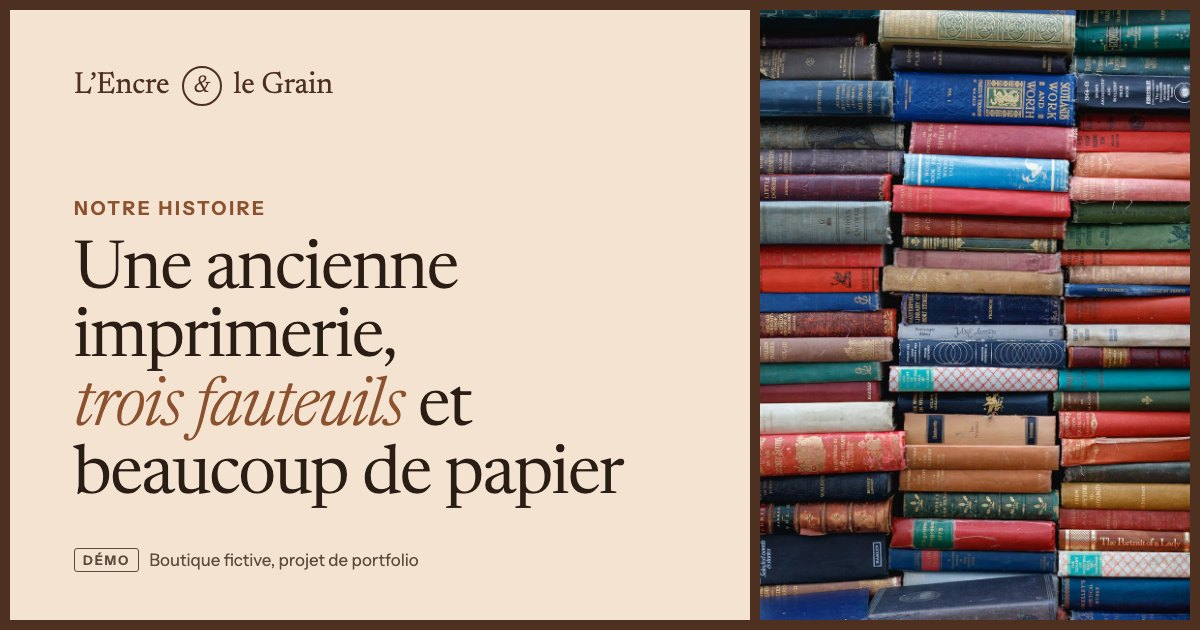
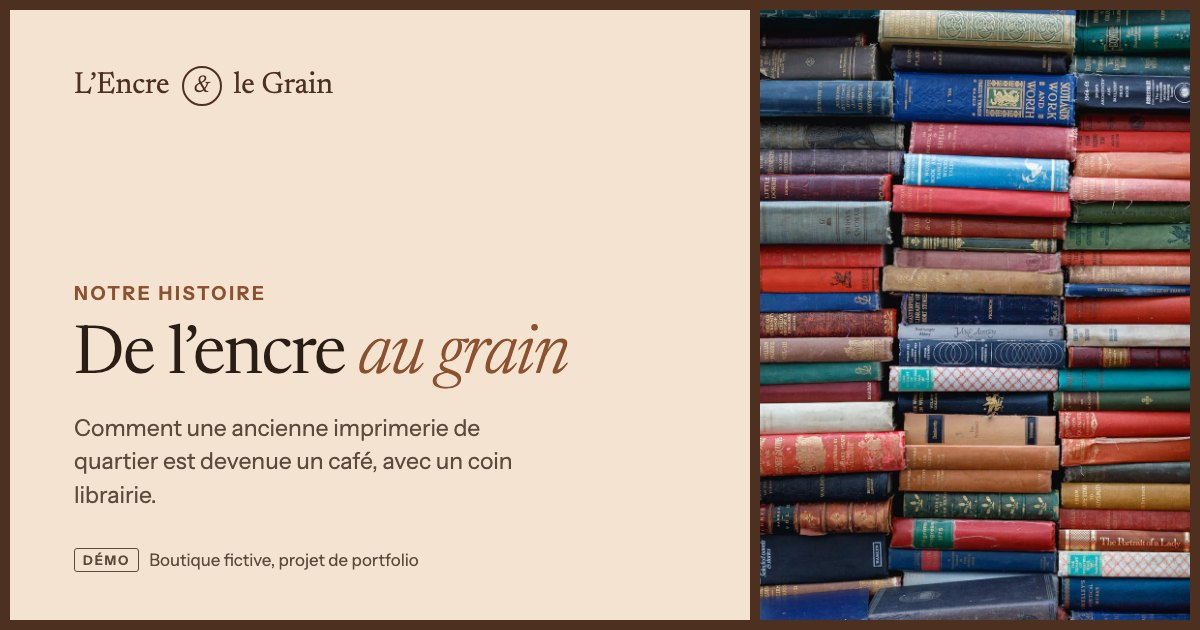
En-têtes de page identiques : fond sable et même hauteur
- Un seul fond (sable) pour tous les en-têtes, hauteur minimale commune
- Mentions (fictif, prix indicatifs) déplacées juste sous le bandeau
- Page histoire : titre « De l'encre au grain », introductions raccourcies
- Image de partage de l'histoire régénérée

Changed region(s): [[0.0617, 0.3016, 0.5242, 0.8143]]

diff --git a/src/components/layout/PageHeader.vue b/src/components/layout/PageHeader.vue
@@ -1,24 +1,23 @@
 <script setup lang="ts">
 /**
- * En-tête des pages intérieures : bandeau coloré qui détache le titre du
- * menu, avec fil d'Ariane et tampon décoratif aux couleurs de la marque.
+ * En-tête des pages intérieures : bandeau sable identique sur toutes les pages
+ * (même fond, même hauteur minimale), avec fil d'Ariane et tampon décoratif.
+ * Pour garder la même hauteur partout, l'introduction tient en deux lignes et
+ * les mentions (« fictif », « prix indicatifs ») passent sous le bandeau.
  */
-withDefaults(
-  defineProps<{
-    /** Identifiant du h1, pour aria-labelledby. */
-    titleId: string
-    eyebrow: string
-    /** Libellé de la page dans le fil d'Ariane. */
-    crumb: string
-    /** Sable pour la librairie et les pages générales, kraft pour l'univers café. */
-    tone?: 'sand' | 'kraft'
-  }>(),
-  { tone: 'sand' },
-)
+defineProps<{
+  /** Identifiant du h1, pour aria-labelledby. */
+  titleId: string
+  eyebrow: string
+  /** Libellé de la page dans le fil d'Ariane. */
+  crumb: string
+  /** Mention affichée juste sous le bandeau. */
+  note?: string
+}>()
 </script>
 
 <template>
-  <header class="page-header" :class="`page-header--${tone}`">
+  <header class="page-header">
     <div class="container page-header__inner">
       <nav aria-label="Fil d'Ariane" class="page-header__crumbs">
         <ol>
@@ -41,6 +40,7 @@ withDefaults(
       </div>
     </div>
   </header>
+  <p v-if="note" class="page-header__note container">{{ note }}</p>
 </template>
 
 <style scoped>
@@ -51,13 +51,13 @@ withDefaults(
   background: var(--color-library);
 }
 
-.page-header--kraft {
-  background: var(--color-cafe);
-}
 
 .page-header__inner {
   display: grid;
+  align-content: start;
   gap: var(--space-6);
+  /* Même hauteur sur toutes les pages (celle de la carte) */
+  min-height: 24.5rem;
   padding-block: var(--space-7) var(--space-8);
 }
 
@@ -72,14 +72,7 @@ withDefaults(
   list-style: none;
 }
 
-/* Le caramel n'est pas assez contrasté sur le kraft : on passe au marron */
-.page-header--kraft .eyebrow {
-  color: var(--color-primary);
-}
 
-.page-header--kraft .page-header__crumbs ol {
-  color: var(--color-cafe-ink);
-}
 
 .page-header__crumbs li + li::before {
   content: '/';
@@ -123,11 +116,10 @@ withDefaults(
   font-size: var(--text-lead);
 }
 
-.page-header--kraft .page-header__lead {
-  color: var(--color-cafe-ink);
-}
 
-.page-header__lead :deep(small) {
+.page-header__note {
+  padding-top: var(--space-4);
+  color: var(--color-text-muted);
   font-size: var(--text-xs);
   font-style: italic;
 }
@@ -138,6 +130,10 @@ withDefaults(
 }
 
 @media (min-width: 56rem) {
+  .page-header__inner {
+    min-height: 21.875rem;
+  }
+
   .page-header__grid {
     grid-template-columns: 1fr auto;
   }
@@ -159,11 +155,6 @@ withDefaults(
     transform: rotate(-8deg);
   }
 
-  .page-header--kraft .page-header__stamp {
-    box-shadow:
-      0 0 0 6px var(--color-cafe),
-      0 0 0 7px var(--color-primary);
-  }
 
   .page-header__amp {
     font-family: var(--font-serif);

diff --git a/src/pages/LibraryPage.vue b/src/pages/LibraryPage.vue
@@ -16,17 +16,17 @@ usePageMeta({
 </script>
 
 <template>
-  <PageHeader title-id="library-title" eyebrow="Le coin librairie" crumb="Le coin librairie">
+  <PageHeader
+    title-id="library-title"
+    eyebrow="Le coin librairie"
+    crumb="Le coin librairie"
+    note="Les livres existent vraiment ; les prix sont indicatifs. Les couvertures sont des illustrations créées pour le site, pas celles des éditeurs."
+  >
     <template #title>La sélection <em>d'automne</em></template>
     <p>
-      {{ total }} livres pour les soirées qui raccourcissent : sorcières, manoirs, forêts qui
-      murmurent et fantasy douce comme un latte. Tous sont à feuilleter sur place, près de la
-      machine à café.
+      {{ total }} livres pour les soirées qui raccourcissent : sorcières, manoirs et fantasy douce
+      comme un latte, à feuilleter sur place.
     </p>
-    <small>
-      Les livres existent vraiment ; les prix sont indicatifs. Les couvertures sont des
-      illustrations créées pour le site, pas celles des éditeurs.
-    </small>
   </PageHeader>
 
   <section class="library section" aria-labelledby="library-title">

diff --git a/src/pages/StoryPage.vue b/src/pages/StoryPage.vue
@@ -34,15 +34,17 @@ usePageMeta({
 </script>
 
 <template>
-  <PageHeader title-id="story-title" eyebrow="Notre histoire" crumb="Notre histoire">
-    <template #title>
-      Une ancienne imprimerie, <em>trois fauteuils</em> et beaucoup de papier
-    </template>
+  <PageHeader
+    title-id="story-title"
+    eyebrow="Notre histoire"
+    crumb="Notre histoire"
+    note="Ce lieu et son histoire sont imaginés pour un projet de portfolio."
+  >
+    <template #title>De l'encre <em>au grain</em></template>
     <p>
-      L'Encre &amp; le Grain est né d'une envie simple : réunir sous le même toit les deux choses
-      qui font les bons après-midi, un livre et une tasse.
+      Comment une ancienne imprimerie de quartier est devenue un café, avec un coin librairie
+      pour les après-midi qui s'étirent.
     </p>
-    <small>Ce lieu et son histoire sont imaginés pour un projet de portfolio.</small>
   </PageHeader>
 
   <article class="story" aria-labelledby="story-title">

diff --git a/src/pages/ContactPage.vue b/src/pages/ContactPage.vue
@@ -15,13 +15,17 @@ usePageMeta({
 </script>
 
 <template>
-  <PageHeader title-id="contact-title" eyebrow="Contact" crumb="Contact">
+  <PageHeader
+    title-id="contact-title"
+    eyebrow="Contact"
+    crumb="Contact"
+    note="Adresse, téléphone, e-mail et horaires sont fictifs ; le formulaire n'envoie rien."
+  >
     <template #title>Nous trouver <em>&amp; nous écrire</em></template>
     <p>
       Une question sur un livre, sur la carte ou sur nos horaires ? Passez au comptoir, ou
       laissez-nous quelques lignes ci-dessous.
     </p>
-    <small>Adresse, téléphone, e-mail et horaires sont fictifs ; le formulaire n'envoie rien.</small>
   </PageHeader>
 
   <section class="contact section" aria-labelledby="contact-title">

diff --git a/src/pages/CreditsPage.vue b/src/pages/CreditsPage.vue
@@ -18,9 +18,8 @@ usePageMeta({
   <PageHeader title-id="credits-title" eyebrow="Mentions" crumb="Crédits">
     <template #title>Crédits</template>
     <p>
-      L'Encre &amp; le Grain est un projet de portfolio : le lieu, la carte, l'adresse et les
-      horaires sont inventés. Voici d'où viennent les images, les polices et les informations
-      utilisées sur le site.
+      D'où viennent les images, les polices et les informations du site. Le lieu, la carte,
+      l'adresse et les horaires sont inventés pour un projet de portfolio.
     </p>
   </PageHeader>
 

diff --git a/src/pages/MenuPage.vue b/src/pages/MenuPage.vue
@@ -33,7 +33,7 @@ usePageMeta({
 </script>
 
 <template>
-  <PageHeader title-id="menu-page-title" eyebrow="Le café" crumb="La carte" tone="kraft">
+  <PageHeader title-id="menu-page-title" eyebrow="Le café" crumb="La carte">
     <template #title>La carte</template>
     <p>
       Espresso, méthodes douces, boissons de saison et pâtisseries sorties du four le matin. La

diff --git a/e2e/pages.spec.ts b/e2e/pages.spec.ts
@@ -4,7 +4,7 @@ const pages = [
   { path: '/', title: /Un chapitre/ },
   { path: '/librairie', title: /La sélection/ },
   { path: '/carte', title: /La carte/ },
-  { path: '/histoire', title: /Une ancienne imprimerie/ },
+  { path: '/histoire', title: /De l'encre/ },
   { path: '/contact', title: /Nous trouver/ },
   { path: '/credits', title: /./ },
 ]

diff --git a/README.md b/README.md
@@ -79,8 +79,9 @@ Mélange de deux pistes explorées en amont :
 - **Structure d'atelier** : filets marron chaud, étiquettes « tamponnées », boutons en
   capitales et **papier kraft pour tout l'univers du café**.
 
-Le coin librairie vit sur le sable clair, le café sur le kraft. Le logo réunit les deux :
-l'esperluette italique dans un tampon circulaire.
+Le coin librairie vit sur le sable clair, le café sur le kraft (fiche de la carte, newsletter).
+Le logo réunit les deux : l'esperluette italique dans un tampon circulaire. Les en-têtes des pages
+intérieures sont tous identiques : fond sable, même hauteur.
 
 | Rôle | Couleur |
 | --- | --- |
